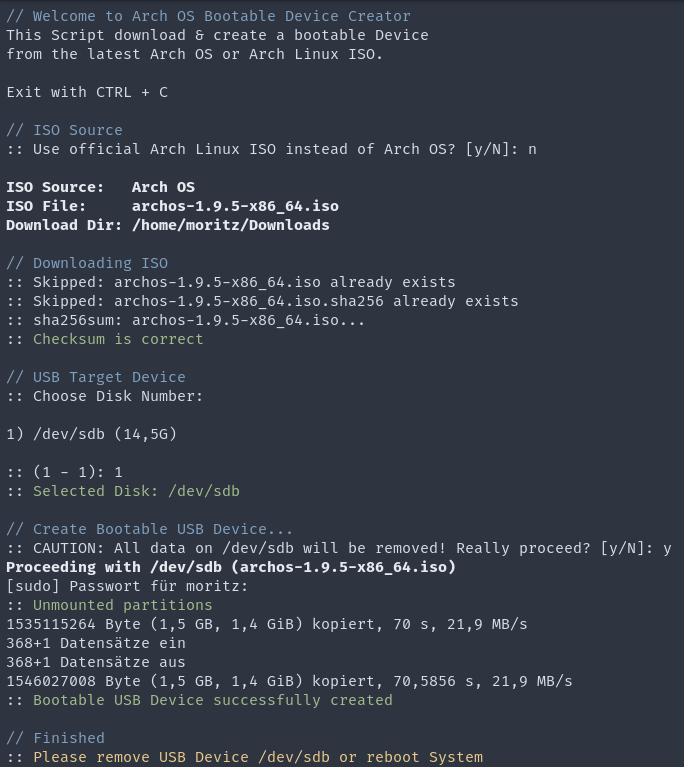
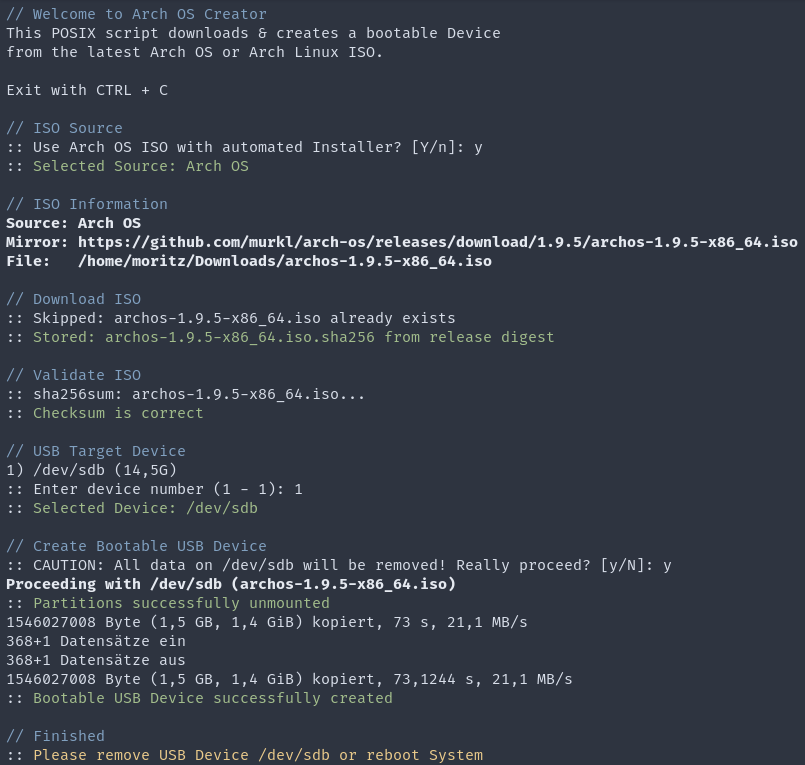
refactoring, cleanup

diff --git a/docs/README.md b/docs/README.md
@@ -1,6 +1,6 @@
 <div align="center">
 
-# Arch Linux Bootable Device Creator
+# Arch OS Creator
 
 **[ ➜ Run One-line POSIX Executable](#create-bootable-usb-device)**
 
@@ -27,6 +27,7 @@ The default variables can be overwritten with `export`. The script checks whethe
 
 ```
 export DOWNLOAD_DIR="~/Downloads"
+export ARCH_OS_RELEASES_API="https://api.github.com/repos/murkl/arch-os/releases/latest"
 export ARCH_LINUX_ISO_MIRROR="https://mirrors.xtom.de/archlinux/iso/latest"
 ```
 